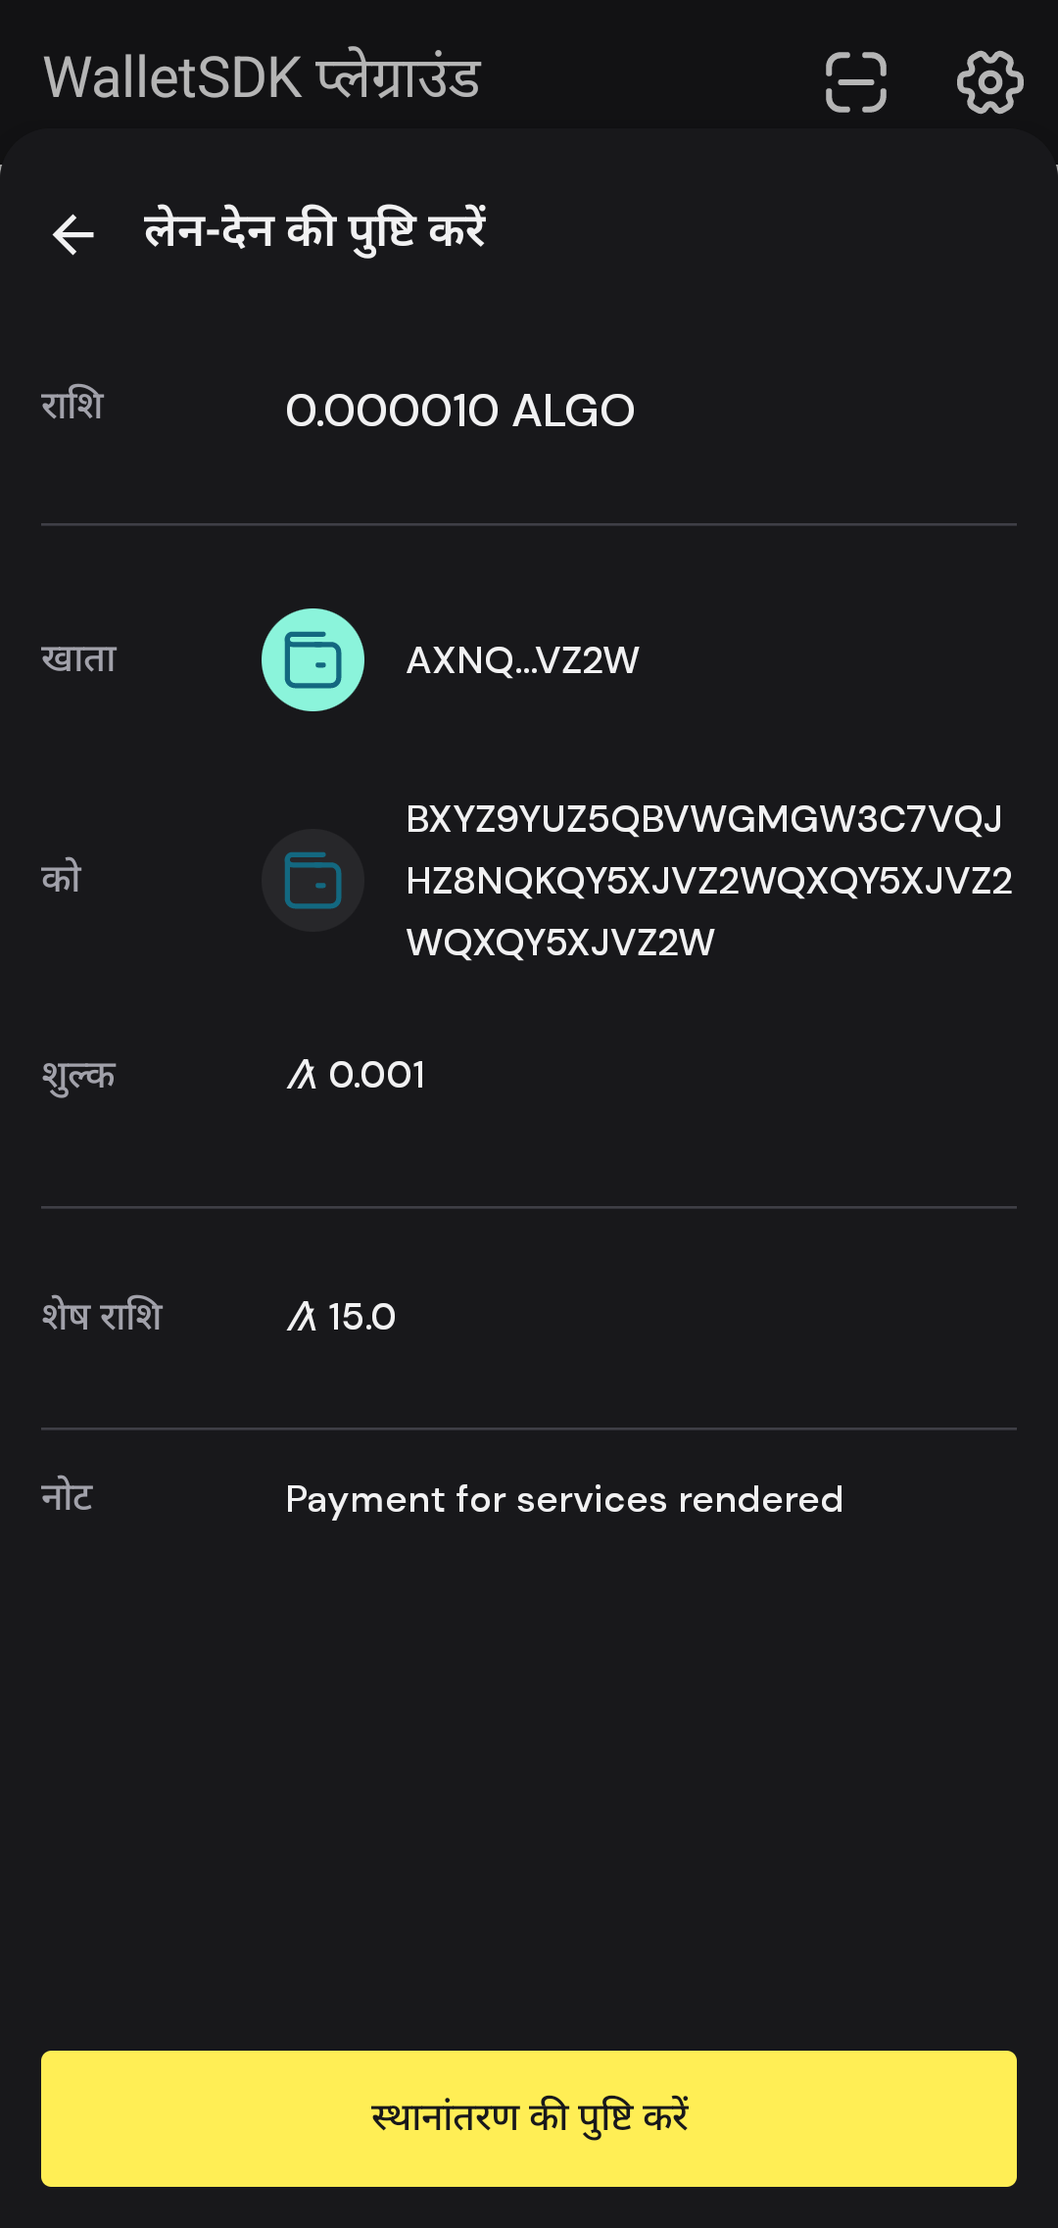
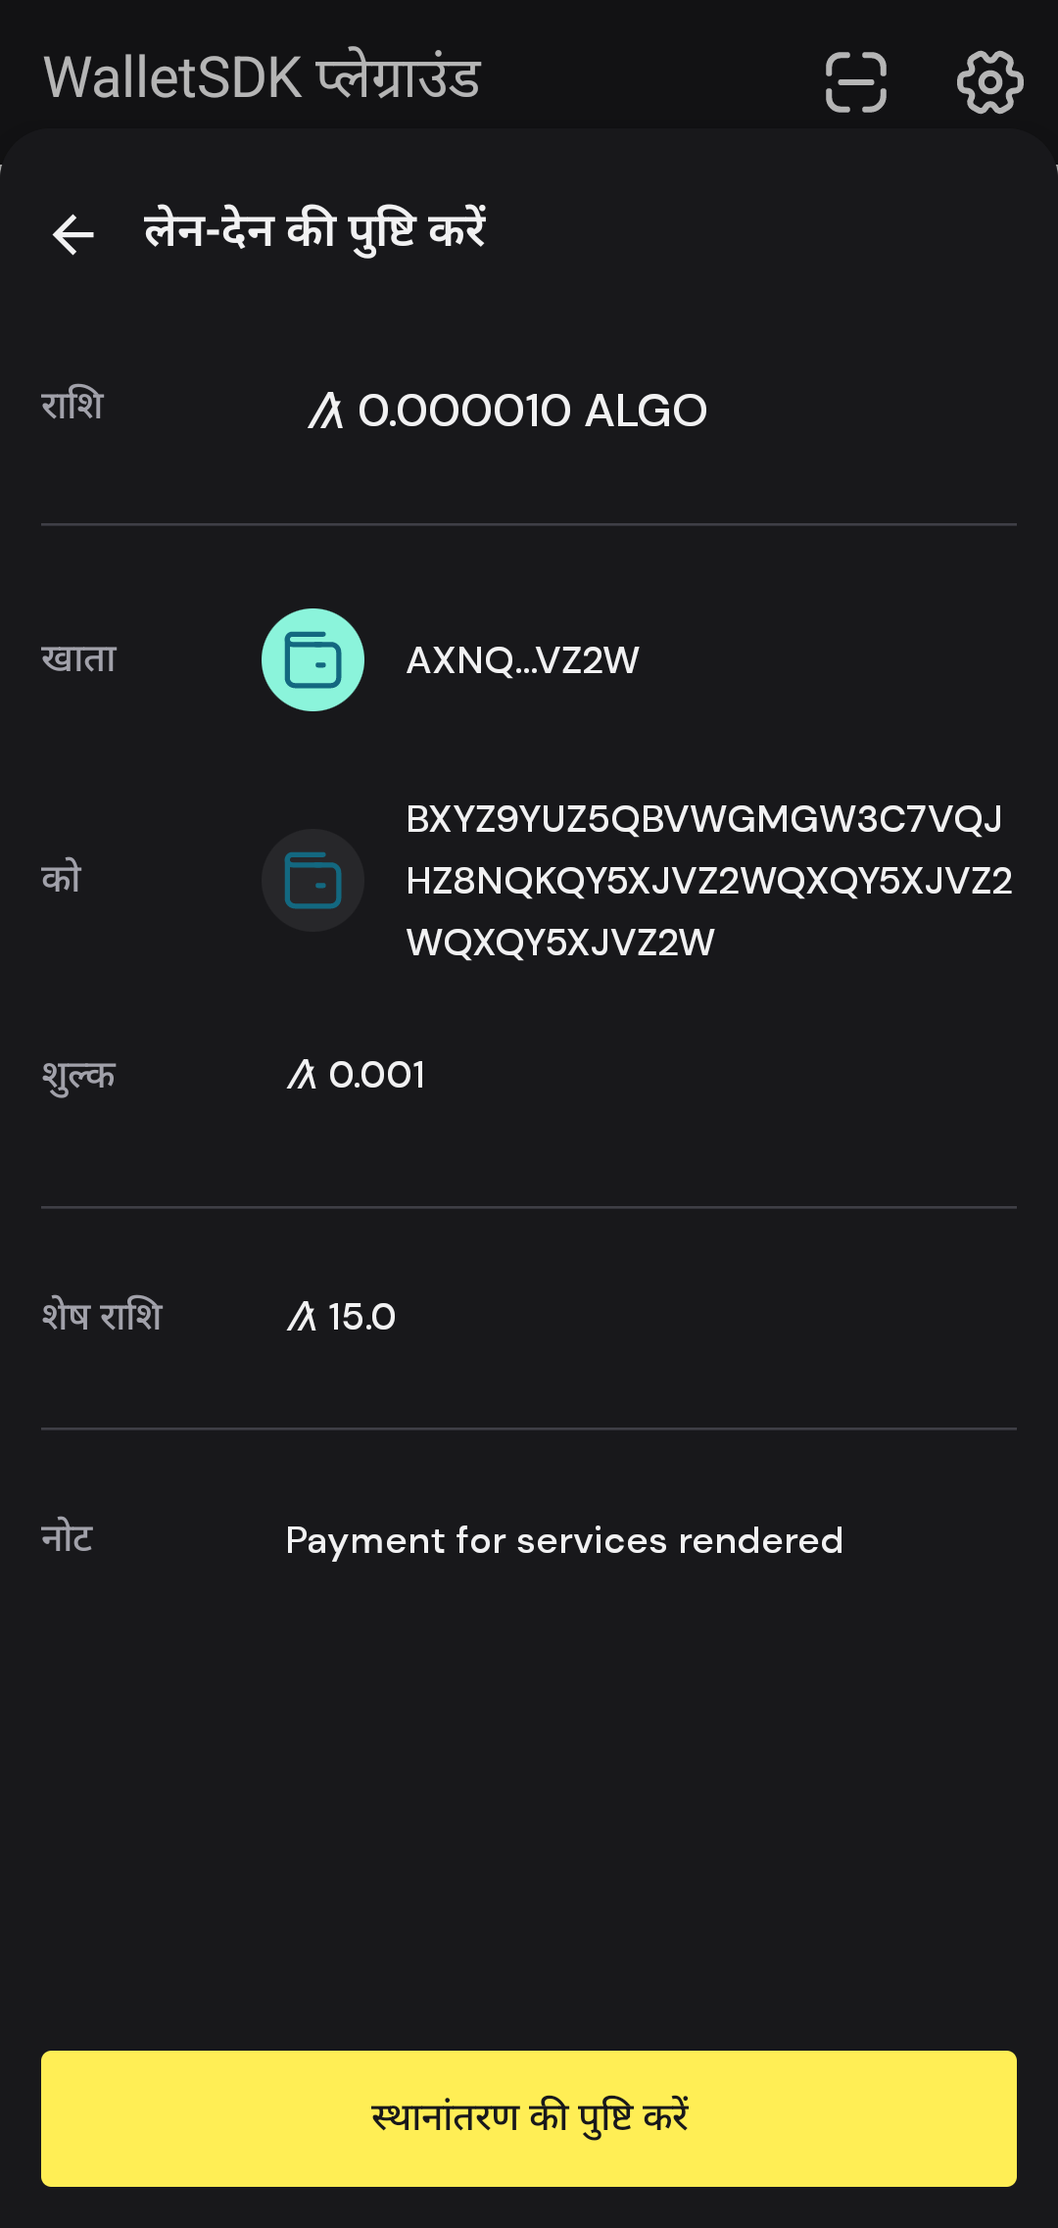
test: add in ASA transfer screens to screenshot tool (#250)

diff --git a/wallet-sdk-ui/src/commonMain/kotlin/com/michaeltchuang/walletsdk/ui/signing/screens/AssetTransferConfirmScreen.kt b/wallet-sdk-ui/src/commonMain/kotlin/com/michaeltchuang/walletsdk/ui/signing/screens/AssetTransferConfirmScreen.kt
@@ -297,12 +297,26 @@ fun AssetTransferContent(
                 Modifier
                     .align(Alignment.BottomCenter)
                     .fillMaxWidth(),
-            state = if (state.isAssetValid && isButtonEnabled && assetBalanceStatus(state.assetId, state.assetBalance)) AlgoKitButtonState.ENABLED else AlgoKitButtonState.DISABLED,
+            state =
+                if (state.isAssetValid &&
+                    isButtonEnabled &&
+                    assetBalanceStatus(
+                        state.assetId,
+                        state.assetBalance,
+                    )
+                ) {
+                    AlgoKitButtonState.ENABLED
+                } else {
+                    AlgoKitButtonState.DISABLED
+                },
         )
     }
 }
 
-private fun assetBalanceStatus(assetId: Long, assetBalance: String?): Boolean {
+private fun assetBalanceStatus(
+    assetId: Long,
+    assetBalance: String?,
+): Boolean {
     if (assetId == -7L) return true // ALGO is always valid
 
     // For ASA, check if balance is valid
@@ -340,6 +354,7 @@ fun AssetTransferContentItems(
             value = amount.formatAmount(),
             assetId = assetId,
             assetName = assetName,
+            assetLogoUrl = assetLogoUrl,
         )
 
         AssetTransferDivider()
@@ -356,12 +371,12 @@ fun AssetTransferContentItems(
 
         AssetTransferLabeledText(
             label = localizedStringResource(Res.string.fee),
-            value = fee.toAlgoCurrency()
+            value = fee.toAlgoCurrency(),
         )
         Spacer(modifier = Modifier.height(8.dp))
+
         AssetTransferDivider()
 
-//        AssetTransferLabeledText(label = "Current", value = "10.00".toAlgoCurrency())
         AssetTransferLabeledText(
             label = localizedStringResource(Res.string.balance),
             value =
@@ -384,9 +399,9 @@ fun AssetTransferContentItems(
                 assetBalance = assetBalance,
                 assetName = assetName,
             )
-            AssetTransferDivider()
         }
-
+        AssetTransferDivider()
+        Spacer(modifier = Modifier.height(16.dp))
         AssetTransferAddNote(note, onSetNote)
     }
 }
@@ -417,7 +432,7 @@ fun AssetTransferASABalanceRow(
             style = typography.body.regular.sansMedium,
         )
         Row(verticalAlignment = Alignment.CenterVertically) {
-            if (!assetLogoUrl.isNullOrEmpty()) {
+            if (assetLogoUrl.isNotEmpty()) {
                 AsyncImage(
                     model = assetLogoUrl,
                     contentDescription = "Asset Logo",
@@ -442,8 +457,10 @@ fun AssetTransferAmountLabeledText(
     value: String,
     assetId: Long = -7L,
     assetName: String = "",
+    assetLogoUrl: String = "",
 ) {
     val displayAssetName = if (assetId != -7L && assetName.isNotEmpty()) assetName else "ALGO"
+    val amountValue = if (assetId != -7L) value else value.toAlgoCurrency()
 
     Row(modifier = Modifier.padding(vertical = 16.dp)) {
         Text(
@@ -452,20 +469,21 @@ fun AssetTransferAmountLabeledText(
             color = AlgoKitTheme.colors.textGray,
             style = typography.body.regular.sansMedium,
         )
-        Column {
-            Text(
-                text = "$value $displayAssetName",
-                fontSize = 18.sp,
-                color = AlgoKitTheme.colors.textMain,
-                style = typography.body.regular.sansMedium,
+        if (assetId != -7L && assetLogoUrl.isNotEmpty()) {
+            AsyncImage(
+                model = assetLogoUrl,
+                contentDescription = "Asset Logo",
+                contentScale = ContentScale.Crop,
+                modifier = Modifier.size(24.dp),
             )
-
-//            Text(
-//                text = "\u00A6 $value",
-//                color = AlgoKitTheme.colors.textGray,
-//                style = typography.body.regular.sansMedium,
-//            )
         }
+        Text(
+            modifier = Modifier.padding(horizontal = 8.dp),
+            text = "$amountValue $displayAssetName",
+            fontSize = 18.sp,
+            color = AlgoKitTheme.colors.textMain,
+            style = typography.body.regular.sansMedium,
+        )
     }
 }
 
@@ -652,19 +670,20 @@ fun PreviewAssetTransferScreen() {
     AlgoKitTheme {
         ScreenContent(
             navController = androidx.navigation.compose.rememberNavController(),
-            viewState = AssetTransferConfirmViewModel.ViewState.Content(
-                senderAddress = "L4HCUPPXMVJMHZPJSCC7FJV3BP66OKKKNQ5FH4U7RZMZZGOV3R2QM3YSSM",
-                receiverAddress = "X3B5KQQGQ5XJFGWDKLJ4J7Q2Z4H3YKJ5L6Q2X4D7F8G9H0J1K2L3M4N5O",
-                amount = "100",
-                accountBalance = "599000",
-                note = "Test note",
-                fee = "0.001",
-                assetId = 10458941L,
-                assetName = "USDC",
-                assetLogoUrl = "https://www.kasandbox.org/programming-images/avatars/leaf-blue.png",
-                assetBalance = "0",
-                isAssetValid = true,
-            ),
+            viewState =
+                AssetTransferConfirmViewModel.ViewState.Content(
+                    senderAddress = "L4HCUPPXMVJMHZPJSCC7FJV3BP66OKKKNQ5FH4U7RZMZZGOV3R2QM3YSSM",
+                    receiverAddress = "X3B5KQQGQ5XJFGWDKLJ4J7Q2Z4H3YKJ5L6Q2X4D7F8G9H0J1K2L3M4N5O",
+                    amount = "100",
+                    accountBalance = "599000",
+                    note = "Test note",
+                    fee = "0.001",
+                    assetId = 10458941L,
+                    assetName = "USDC",
+                    assetLogoUrl = "https://algorand-wallet-mainnet.b-cdn.net/media/usd-coin-usdc-logo.png",
+                    assetBalance = "0",
+                    isAssetValid = true,
+                ),
         )
     }
 }

diff --git a/docs/screenshots/index.html b/docs/screenshots/index.html
@@ -790,12 +790,36 @@
         "com.michaeltchuang.walletsdk.ui.settings.screens.ThemePickerScreenshotTest_hi_light_testContent.png",
         "com.michaeltchuang.walletsdk.ui.settings.screens.ThemePickerScreenshotTest_it_dark_testContent.png",
         "com.michaeltchuang.walletsdk.ui.settings.screens.ThemePickerScreenshotTest_it_light_testContent.png",
+        "com.michaeltchuang.walletsdk.ui.signing.screens.AddAssetScreenshotTest_en_dark_testContent.png",
+        "com.michaeltchuang.walletsdk.ui.signing.screens.AddAssetScreenshotTest_en_dark_testError.png",
+        "com.michaeltchuang.walletsdk.ui.signing.screens.AddAssetScreenshotTest_en_light_testContent.png",
+        "com.michaeltchuang.walletsdk.ui.signing.screens.AddAssetScreenshotTest_en_light_testError.png",
+        "com.michaeltchuang.walletsdk.ui.signing.screens.AddAssetScreenshotTest_hi_dark_testContent.png",
+        "com.michaeltchuang.walletsdk.ui.signing.screens.AddAssetScreenshotTest_hi_dark_testError.png",
+        "com.michaeltchuang.walletsdk.ui.signing.screens.AddAssetScreenshotTest_hi_light_testContent.png",
+        "com.michaeltchuang.walletsdk.ui.signing.screens.AddAssetScreenshotTest_hi_light_testError.png",
+        "com.michaeltchuang.walletsdk.ui.signing.screens.AddAssetScreenshotTest_it_dark_testContent.png",
+        "com.michaeltchuang.walletsdk.ui.signing.screens.AddAssetScreenshotTest_it_dark_testError.png",
+        "com.michaeltchuang.walletsdk.ui.signing.screens.AddAssetScreenshotTest_it_light_testContent.png",
+        "com.michaeltchuang.walletsdk.ui.signing.screens.AddAssetScreenshotTest_it_light_testError.png",
+        "com.michaeltchuang.walletsdk.ui.signing.screens.AssetTransferConfirmScreenshotTest_en_dark_testASAContent.png",
         "com.michaeltchuang.walletsdk.ui.signing.screens.AssetTransferConfirmScreenshotTest_en_dark_testContent.png",
+        "com.michaeltchuang.walletsdk.ui.signing.screens.AssetTransferConfirmScreenshotTest_en_dark_testError.png",
+        "com.michaeltchuang.walletsdk.ui.signing.screens.AssetTransferConfirmScreenshotTest_en_light_testASAContent.png",
         "com.michaeltchuang.walletsdk.ui.signing.screens.AssetTransferConfirmScreenshotTest_en_light_testContent.png",
+        "com.michaeltchuang.walletsdk.ui.signing.screens.AssetTransferConfirmScreenshotTest_en_light_testError.png",
+        "com.michaeltchuang.walletsdk.ui.signing.screens.AssetTransferConfirmScreenshotTest_hi_dark_testASAContent.png",
         "com.michaeltchuang.walletsdk.ui.signing.screens.AssetTransferConfirmScreenshotTest_hi_dark_testContent.png",
+        "com.michaeltchuang.walletsdk.ui.signing.screens.AssetTransferConfirmScreenshotTest_hi_dark_testError.png",
+        "com.michaeltchuang.walletsdk.ui.signing.screens.AssetTransferConfirmScreenshotTest_hi_light_testASAContent.png",
         "com.michaeltchuang.walletsdk.ui.signing.screens.AssetTransferConfirmScreenshotTest_hi_light_testContent.png",
+        "com.michaeltchuang.walletsdk.ui.signing.screens.AssetTransferConfirmScreenshotTest_hi_light_testError.png",
+        "com.michaeltchuang.walletsdk.ui.signing.screens.AssetTransferConfirmScreenshotTest_it_dark_testASAContent.png",
         "com.michaeltchuang.walletsdk.ui.signing.screens.AssetTransferConfirmScreenshotTest_it_dark_testContent.png",
+        "com.michaeltchuang.walletsdk.ui.signing.screens.AssetTransferConfirmScreenshotTest_it_dark_testError.png",
+        "com.michaeltchuang.walletsdk.ui.signing.screens.AssetTransferConfirmScreenshotTest_it_light_testASAContent.png",
         "com.michaeltchuang.walletsdk.ui.signing.screens.AssetTransferConfirmScreenshotTest_it_light_testContent.png",
+        "com.michaeltchuang.walletsdk.ui.signing.screens.AssetTransferConfirmScreenshotTest_it_light_testError.png",
         "com.michaeltchuang.walletsdk.ui.signing.screens.KeyRegConfirmScreenshotTest_en_dark_testContent.png",
         "com.michaeltchuang.walletsdk.ui.signing.screens.KeyRegConfirmScreenshotTest_en_light_testContent.png",
         "com.michaeltchuang.walletsdk.ui.signing.screens.KeyRegConfirmScreenshotTest_hi_dark_testContent.png",
@@ -1001,6 +1025,39 @@
                     "SelectAccountScreenshotTest_testContent",
                     "AssetTransferConfirmScreenshotTest_testContent",
                     "TransactionSuccessScreenshotTest_testContent"
+                ]
+            },
+            {
+                "name": "Add Asset using QR Code Flow (Success)",
+                "steps": [
+                    "QRScannerScreenshotTest_testContent",
+                    "SelectAccountScreenshotTest_testContent",
+                    "AddAssetScreenshotTest_testContent",
+                ]
+            },
+            {
+                "name": "Add Asset using QR Code Flow (Error)",
+                "steps": [
+                    "QRScannerScreenshotTest_testContent",
+                    "SelectAccountScreenshotTest_testContent",
+                    "AddAssetScreenshotTest_testError",
+                ]
+            },
+            {
+                "name": "Asset ASA Transfer using QR Code Flow (Success)",
+                "steps": [
+                    "QRScannerScreenshotTest_testContent",
+                    "SelectAccountScreenshotTest_testContent",
+                    "AssetTransferConfirmScreenshotTest_testASAContent",
+                    "TransactionSuccessScreenshotTest_testContent"
+                ]
+            },
+            {
+                "name": "Asset ASA Transfer using QR Code Flow (Error)",
+                "steps": [
+                    "QRScannerScreenshotTest_testContent",
+                    "SelectAccountScreenshotTest_testContent",
+                    "AssetTransferConfirmScreenshotTest_testError"
                 ]
             },
             {

diff --git a/wallet-sdk-ui/src/androidInstrumentedTest/kotlin/com/michaeltchuang/walletsdk/ui/signing/screens/AssetTransferConfirmScreenshotTest.kt b/wallet-sdk-ui/src/androidInstrumentedTest/kotlin/com/michaeltchuang/walletsdk/ui/signing/screens/AssetTransferConfirmScreenshotTest.kt
@@ -22,6 +22,11 @@ class AssetTransferConfirmScreenshotTest(
                     accountBalance = "15000000",
                     note = "Payment for services rendered",
                     fee = "0.001",
+                    assetId = -7L,
+                    assetName = "",
+                    assetLogoUrl = "",
+                    assetBalance = null,
+                    isAssetValid = true,
                 )
             ScreenContent(
                 navController = navController,
@@ -31,5 +36,54 @@ class AssetTransferConfirmScreenshotTest(
             )
         }
         takeScreenshot("testContent")
+        Thread.sleep(2000)
+    }
+
+    @Test
+    fun testASAContent() {
+        setTestContent {
+            val navController = rememberNavController()
+            val contentState =
+                AssetTransferConfirmViewModel.ViewState.Content(
+                    senderAddress = "AXNQ4ZEZ5QBVWGMGW3C7VQJHZ8NQKQY5XJVZ2WQXQY5XJVZ2WQXQY5XJVZ2W",
+                    receiverAddress = "BXYZ9YUZ5QBVWGMGW3C7VQJHZ8NQKQY5XJVZ2WQXQY5XJVZ2WQXQY5XJVZ2W",
+                    amount = "100.5",
+                    accountBalance = "15000000",
+                    note = "ASA transfer",
+                    fee = "0.001",
+                    assetId = 10458941L,
+                    assetName = "USDC",
+                    assetLogoUrl = "https://algorand-wallet-mainnet.b-cdn.net/media/usd-coin-usdc-logo.png",
+                    assetBalance = "500000000",
+                    isAssetValid = true,
+                )
+            ScreenContent(
+                navController = navController,
+                viewState = contentState,
+                onSendTransaction = { },
+                onSetNote = { },
+            )
+        }
+        takeScreenshot("testASAContent")
+        Thread.sleep(2000)
+    }
+
+    @Test
+    fun testError() {
+        setTestContent {
+            val navController = rememberNavController()
+            val errorState =
+                AssetTransferConfirmViewModel.ViewState.Error(
+                    message = "Asset not found: 99999999999",
+                )
+            ScreenContent(
+                navController = navController,
+                viewState = errorState,
+                onSendTransaction = { },
+                onSetNote = { },
+            )
+        }
+        takeScreenshot("testError")
+        Thread.sleep(2000)
     }
 }

diff --git a/wallet-sdk-ui/src/androidInstrumentedTest/kotlin/com/michaeltchuang/walletsdk/ui/signing/screens/AddAssetScreenshotTest.kt b/wallet-sdk-ui/src/androidInstrumentedTest/kotlin/com/michaeltchuang/walletsdk/ui/signing/screens/AddAssetScreenshotTest.kt
@@ -1,0 +1,57 @@
+package com.michaeltchuang.walletsdk.ui.signing.screens
+
+import androidx.navigation.compose.rememberNavController
+import com.michaeltchuang.walletsdk.ui.base.test.BaseScreenshotTest
+import com.michaeltchuang.walletsdk.ui.signing.viewmodels.AddAssetViewModel
+import org.junit.Test
+import java.util.Locale
+
+class AddAssetScreenshotTest(
+    locale: Locale,
+    darkTheme: Boolean,
+) : BaseScreenshotTest(locale, darkTheme) {
+    @Test
+    fun testContent() {
+        setTestContent {
+            val navController = rememberNavController()
+            val contentState =
+                AddAssetViewModel.ViewState.Content(
+                    assetId = "10458941",
+                    assetName = "USDC",
+                    logoUri = "https://algorand-wallet-mainnet.b-cdn.net/media/usd-coin-usdc-logo.png",
+                    accountAddress = "N44MXXXXXXXXXXXXXXXXXXXXXXXXXXXXXXXXXXXXXXXXXXXXXXX7CWM",
+                    fee = "0.001",
+                    isVerified = true,
+                )
+            ScreenContent(
+                navController = navController,
+                viewState = contentState,
+                onApproveClick = { },
+                onCloseClick = { },
+                onCopyIdClick = { },
+            )
+        }
+        takeScreenshot("testContent")
+        Thread.sleep(1000)
+    }
+
+    @Test
+    fun testError() {
+        setTestContent {
+            val navController = rememberNavController()
+            val errorState =
+                AddAssetViewModel.ViewState.Error(
+                    message = "Asset not found: 99999999999",
+                )
+            ScreenContent(
+                navController = navController,
+                viewState = errorState,
+                onApproveClick = { },
+                onCloseClick = { },
+                onCopyIdClick = { },
+            )
+        }
+        takeScreenshot("testError")
+        Thread.sleep(1000)
+    }
+}

diff --git a/wallet-sdk-core/src/commonMain/kotlin/com/michaeltchuang/walletsdk/core/account/di/AccountCoreModule.kt b/wallet-sdk-core/src/commonMain/kotlin/com/michaeltchuang/walletsdk/core/account/di/AccountCoreModule.kt
@@ -14,9 +14,9 @@ import com.michaeltchuang.walletsdk.core.account.domain.usecase.core.AddFalcon24
 import com.michaeltchuang.walletsdk.core.account.domain.usecase.core.DeleteAlgo25AccountUseCase
 import com.michaeltchuang.walletsdk.core.account.domain.usecase.core.DeleteFalcon24AccountUseCase
 import com.michaeltchuang.walletsdk.core.account.domain.usecase.core.DeleteHdKeyAccountUseCase
-import com.michaeltchuang.walletsdk.core.account.domain.usecase.core.GetAccountAlgoBalanceUseCase
 import com.michaeltchuang.walletsdk.core.account.domain.usecase.core.GetAccountASABalance
 import com.michaeltchuang.walletsdk.core.account.domain.usecase.core.GetAccountASABalanceUseCase
+import com.michaeltchuang.walletsdk.core.account.domain.usecase.core.GetAccountAlgoBalanceUseCase
 import com.michaeltchuang.walletsdk.core.account.domain.usecase.core.GetAccountMinimumBalanceUseCase
 import com.michaeltchuang.walletsdk.core.account.domain.usecase.core.GetAccountRegistrationTypeUseCase
 import com.michaeltchuang.walletsdk.core.account.domain.usecase.core.GetBasicAccountInformationUseCaseImpl

diff --git a/wallet-sdk-core/src/commonMain/kotlin/com/michaeltchuang/walletsdk/core/account/domain/usecase/core/GetAccountASABalanceUseCase.kt b/wallet-sdk-core/src/commonMain/kotlin/com/michaeltchuang/walletsdk/core/account/domain/usecase/core/GetAccountASABalanceUseCase.kt
@@ -7,13 +7,19 @@ import com.michaeltchuang.walletsdk.core.network.service.AccountInformationApiSe
 import com.michaeltchuang.walletsdk.core.network.service.getAccountBalance
 
 fun interface GetAccountASABalance {
-    suspend operator fun invoke(address: String, assetId: Long): BigInteger?
+    suspend operator fun invoke(
+        address: String,
+        assetId: Long,
+    ): BigInteger?
 }
 
 internal class GetAccountASABalanceUseCase(
     private val accountInformationApiService: AccountInformationApiService,
 ) : GetAccountASABalance {
-    override suspend fun invoke(address: String, assetId: Long): BigInteger? =
+    override suspend fun invoke(
+        address: String,
+        assetId: Long,
+    ): BigInteger? =
         when (
             val result =
                 accountInformationApiService.getAccountBalance(address)

diff --git a/wallet-sdk-core/src/commonMain/kotlin/com/michaeltchuang/walletsdk/core/account/domain/usecase/local/LocalAccountUseCases.kt b/wallet-sdk-core/src/commonMain/kotlin/com/michaeltchuang/walletsdk/core/account/domain/usecase/local/LocalAccountUseCases.kt
@@ -120,7 +120,10 @@ fun interface GetAccountAlgoBalance {
 }
 
 fun interface GetAccountASABalance {
-    suspend operator fun invoke(address: String, assetId: Long): BigInteger?
+    suspend operator fun invoke(
+        address: String,
+        assetId: Long,
+    ): BigInteger?
 }
 
 fun interface GetAccountMinimumBalance {
